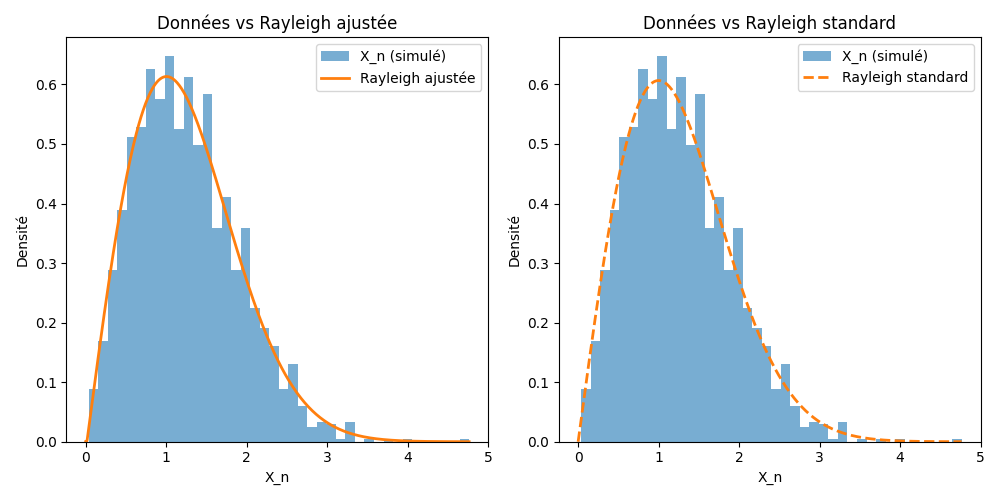
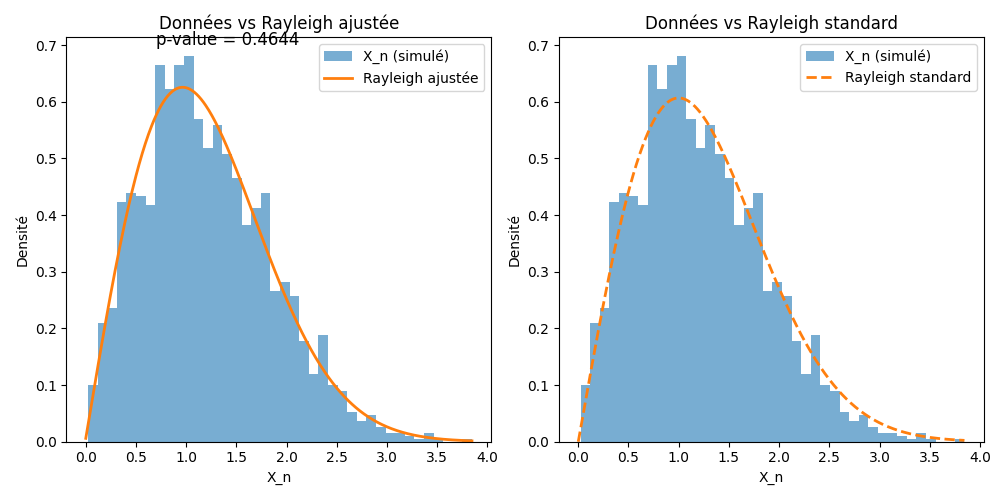
added appropriate bubble sort

diff --git a/launch_test.py b/launch_test.py
@@ -4,28 +4,29 @@ import matplotlib.pyplot as plt
 import numpy as np
 from create_random_list import create_random_list
 from bubble_sort import bubble_sort
-from statistical_test import get_params, get_ks_statistic
+from statistics.statistical_test import get_params, get_ks_statistic
 from scipy.stats import rayleigh
-
+from tqdm import tqdm
 n_samples = 2000
-n_elements = 3000
+n_elements = 2000
 
 def generate_pass_count(_):
-    random_list = create_random_list(n_elements, 0, 1000)
+    random_list = create_random_list(n_elements)
     _, nb_passes = bubble_sort(random_list)
     return nb_passes
 
 def main():
     with mp.Pool(mp.cpu_count()) as pool:
-        number_passes = pool.map(generate_pass_count, range(n_samples))
+        number_passes = pool.map(generate_pass_count, tqdm(range(n_samples)))
 
     x_n = [(n_elements - p) / math.sqrt(n_elements) for p in number_passes]
-    plot_comparison(x_n)
     params = get_params(x_n)
     stat, p_value = get_ks_statistic(x_n, params)
+    plot_comparison(x_n, p_value=p_value)
+    
     print(f"KS stat = {stat:.4f}, p-value = {p_value:.4f}")
 
-def plot_comparison(x_n, filename="results/rayleigh_vs_data.png"):
+def plot_comparison(x_n, filename="result/rayleigh_vs_data.png", p_value=None):
     # Histogramme des données
     plt.figure(figsize=(10, 5))
 
@@ -38,9 +39,10 @@ def plot_comparison(x_n, filename="results/rayleigh_vs_data.png"):
     plt.plot(x_vals, pdf_vals, lw=2, label="Rayleigh ajustée")
 
     plt.title("Données vs Rayleigh ajustée")
-    plt.xlabel("X_n")
+    plt.xlabel("X_n")       
     plt.ylabel("Densité")
     plt.legend()
+    plt.text(0.5, 0.5, f"p-value = {p_value:.4f}", fontsize=12)
 
     # Subplot droite : comparer avec vraie Rayleigh standard
     plt.subplot(1, 2, 2)

diff --git a/bubble_sort.py b/bubble_sort.py
@@ -1,15 +1,13 @@
-from typing import List
-
 def bubble_sort(arr):
     n = len(arr)
-    number_passes=0
-    for i in range(n):
-        swapped = False  # optimisation
-        for j in range(0, n - i - 1):  # éléments non triés uniquement
+    number_passes = 0
+    for i in range(n - 1):
+        swapped = False
+        for j in range(n - i - 1):
             if arr[j] > arr[j + 1]:
                 arr[j], arr[j + 1] = arr[j + 1], arr[j]
                 swapped = True
-        number_passes+=1
-        if not swapped:  # si aucun swap → terminé
-            break
+        number_passes += 1
+        if not swapped:
+            break  # on arrête dès qu'aucun swap : c’est bien le vrai P_n
     return arr, number_passes

diff --git a/create_random_list.py b/create_random_list.py
@@ -1,5 +1,5 @@
-import random
+import numpy as np
 from typing import List
 
-def create_random_list(n:int,min_value:int,max_value:int)->List[int]:
-    return [random.randint(min_value,max_value) for _ in range(n)]
+def create_random_list(n: int) -> List[int]:
+    return list(np.random.permutation(n) + 1)  # si tu veux [1, ..., n] au lieu de [0, ..., n-1]
